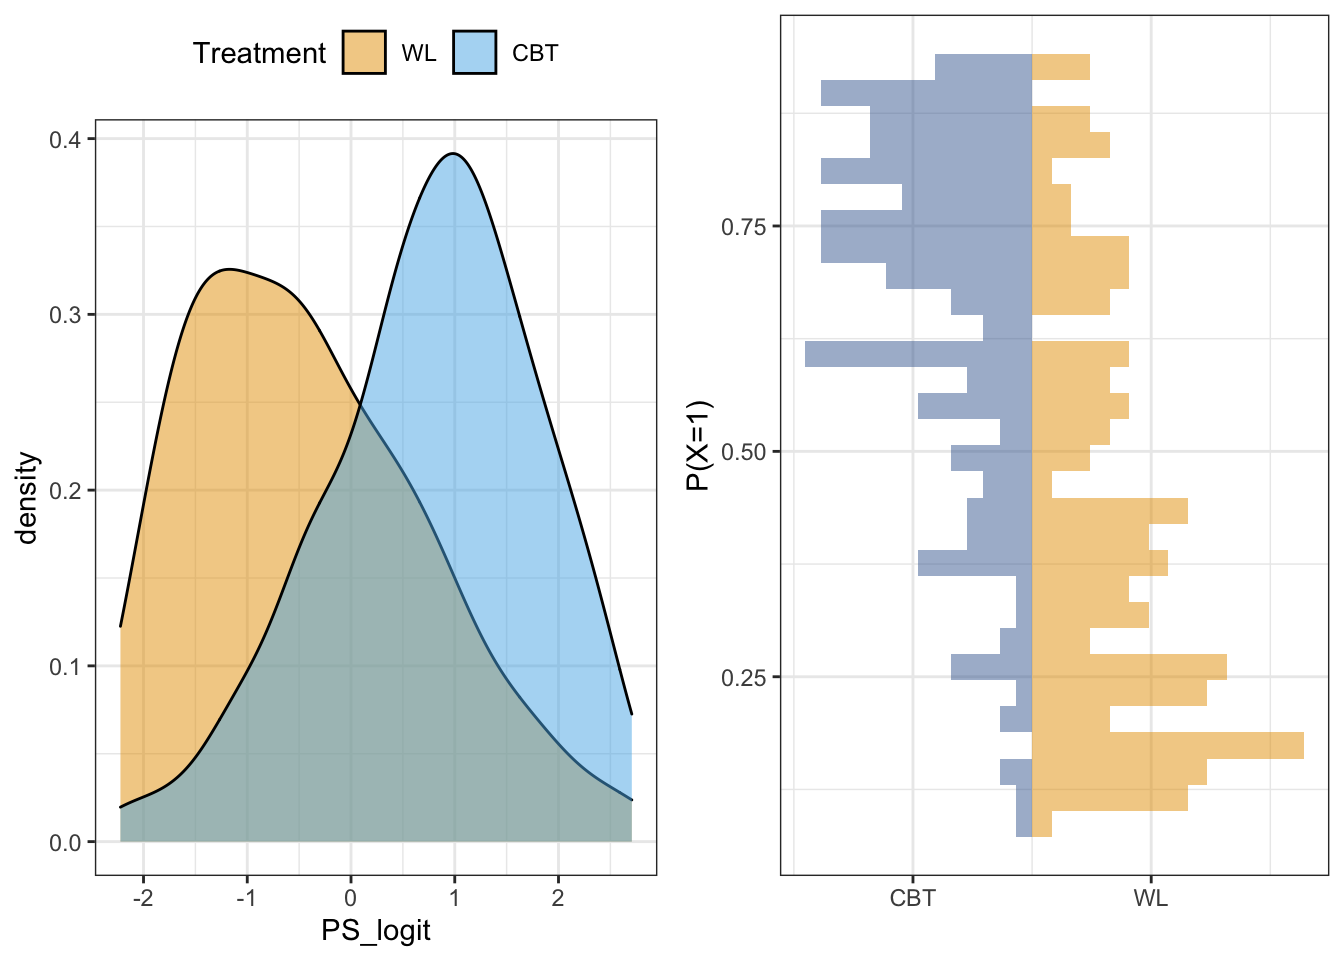
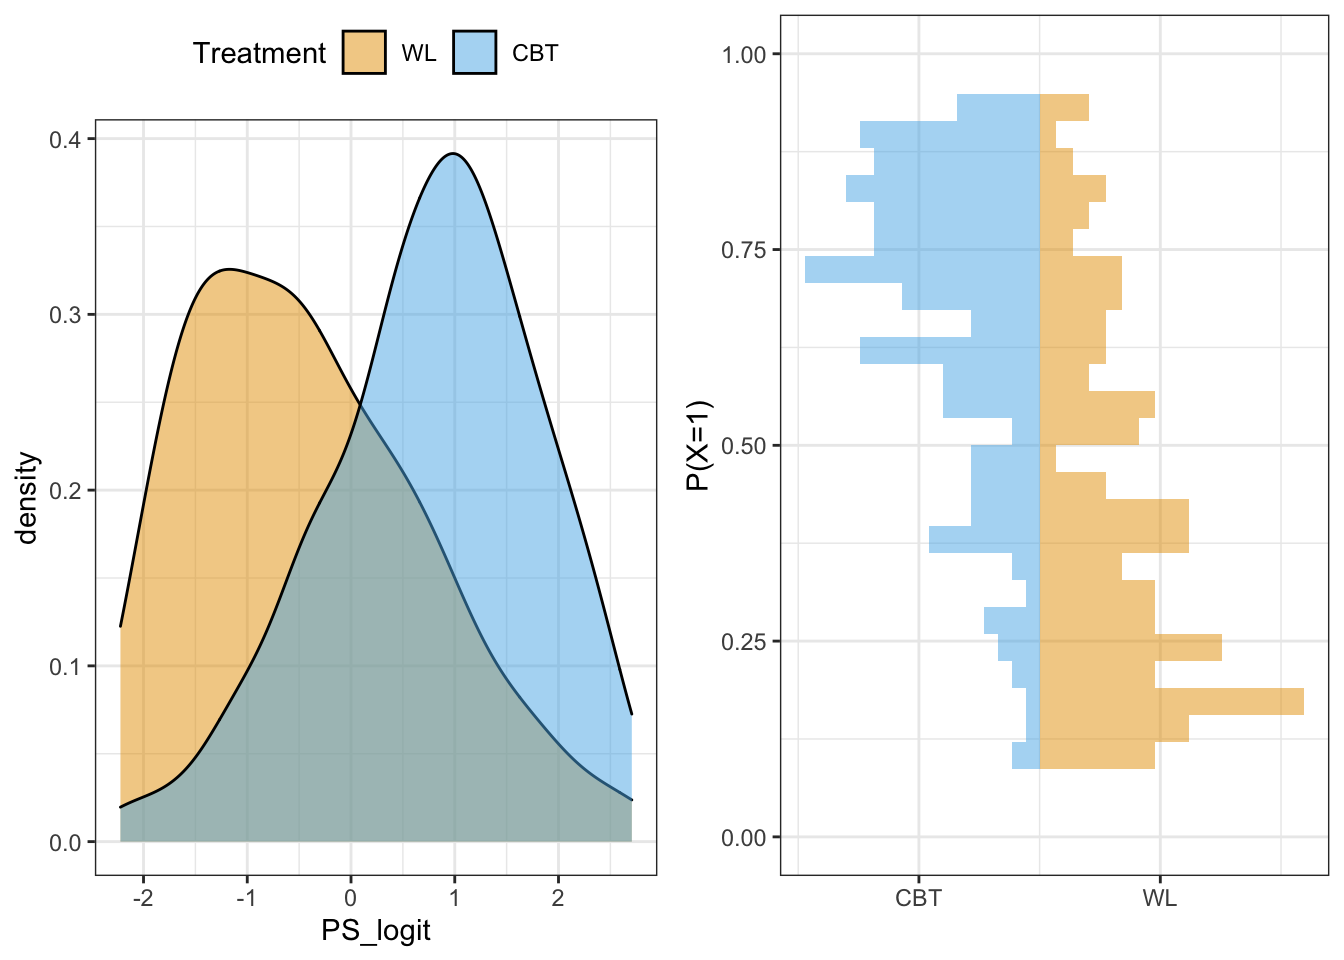
Update causal modeling 2 to Klipps.

diff --git a/content/post/2022-02-07_Kausaleffekte_2_KliPPS.html b/content/post/2022-02-07_Kausaleffekte_2_KliPPS.html
@@ -1,10 +1,14 @@
 ---
 title: "Schätzung von Kausaleffekten 2"
+output:
+  html_document:
+   code_folding: show
+  
 date: '2022-02-07'
 slug: kausal2
 categories:
      - MSc5a
-     
+    
 tags:
 - Kausalität
 - Propensity Scores
@@ -15,7 +19,7 @@ tags:
 subtitle: 'Propensity Scores'
 summary: ''
 authors: [hartig]
-lastmod: '2022-02-07 17:00:00 CEST'
+lastmod: '2022-02-14 17:00:00 CEST'
 featured: no
 header:
      image: "/header/Kausal2_Head.jpg"
@@ -46,7 +50,7 @@ library(MatchIt)      # Für das Propensity Score Matching</code></pre>
 </div>
 <div id="Einleitung" class="section level2">
 <h2>Datenbeispiel</h2>
-<p>Wir verwenden wieder unserer fiktives Datenbeispiel, in dem Patient*innen, die an einer Depression oder einer Angststörung leiden, entweder mit einer kognitiven Verhaltenstherapie (CBT) behandelt oder in einer Wartekontrollgruppe belassen wurden. Die Zuordnung konnte nicht randomisiert erfolgen, weshalb die Gruppen nicht vergleichbar sind.</p>
+<p>Wir verwenden wieder unserer fiktives Datenbeispiel, in dem Patient*innen, die an einer Depression oder einer Angststörung leiden, entweder mit einer kognitiven Verhaltenstherapie (CBT) behandelt oder in einer Wartekontrollgruppe belassen wurden. Die Zuordnung konnte nicht randomisiert erfolgen, weshalb der Effekt der Behandlung nicht ohne weiteres berechenbar ist.</p>
 <pre class="r"><code>load(url(&quot;https://pandar.netlify.app/post/CBTdata.rda&quot;))
 head(CBTdata)</code></pre>
 <table>
@@ -207,7 +211,7 @@ plot(CBTdata$PS_logit, CBTdata$PS_P)</code></pre>
 <div id="prüfung-des-overlap" class="section level3">
 <h3>Prüfung des Overlap</h3>
 <p>Die Unterschiede im resultierenden Propensity Score in Logit-Einheiten können wir uns durch eine grafische Darstellung der Verteilungen in den Gruppen veranschaulichen. Die Treatment-Wahrscheinlichkeit ist in der Treatment-Gruppe deutlich höher, was z.B. durch eine Selektion nach Dringlichkeit der Fälle zustande gekommen sein kann. Durch ein Abtragen der Treatmentwahrscheinlichkeiten können wir zusätzlich veranschaulichen, wie groß die Überschneidungen der Gruppen (<em>common support</em>) sind. In dieser Grafik sind auch das Minimum der Wahrscheinlichkeit in der Treatment-Gruppe und das Maximum in der Kontrollgruppe eingetragen - diese definieren die Grenzen der Überschneidung zwischen den Gruppen.</p>
-<pre class="r"><code>## Overlap &amp; Common Support ----
+<pre class="r fold-hide"><code>## Overlap &amp; Common Support ----
 p1 &lt;- ggplot(CBTdata, aes(x=PS_logit, fill = Treatment)) + 
   theme_bw() + theme(legend.position=&quot;top&quot;) +
   scale_fill_manual(values=c(&quot;#E69F00&quot;, &quot;#56B4E9&quot;)) +
@@ -215,21 +219,19 @@ p1 &lt;- ggplot(CBTdata, aes(x=PS_logit, fill = Treatment)) +
 
 p2 &lt;- ggplot(CBTdata, aes(x=PS_P, fill = Treatment)) + 
   theme_bw() +
-  labs(x=&quot;P(X=1)&quot;, y=&quot;&quot;) +
+  labs(x=&quot;P(X=1)&quot;, y=&quot;&quot;) + xlim(c(0,1)) +
   scale_y_continuous(breaks=c(-1.5,1.5),     # &quot;manuelle&quot; Achsenbeschriftungen, um die Gruppen einzutragen
                      labels=c(&quot;CBT&quot;, &quot;WL&quot;)) +
   geom_histogram(data = CBTdata[CBTdata$Treatment==&quot;WL&quot;,], aes(y=..density..),   # Histogramm WL
                  alpha=0.5, fill=&quot;#E69F00&quot;) +
   geom_histogram(data = CBTdata[CBTdata$Treatment==&quot;CBT&quot;,], aes(y=-..density..), # Histogramm CBT
-                 alpha=0.5, fill=&quot;#486ca1&quot;) +
+                 alpha=0.5, fill=&quot;#56B4E9&quot;) +
   # Minimum in CBT und maximum in WL einzeichnen
   geom_vline(xintercept = c(min(CBTdata$PS_P[CBTdata$Treatment==&quot;CBT&quot;]),
                             max(CBTdata$PS_P[CBTdata$Treatment==&quot;WL&quot;])),
              linetype=2) +
   coord_flip()
 grid.arrange(p1, p2, nrow=1) # Beide Plots nebeneinander</code></pre>
-<pre><code>## `stat_bin()` using `bins = 30`. Pick better value with `binwidth`.
-## `stat_bin()` using `bins = 30`. Pick better value with `binwidth`.</code></pre>
 <p><img src="/post/2022-02-07_Kausaleffekte_2_KliPPS_files/figure-html/unnamed-chunk-8-1.png" width="672" /></p>
 <p>Für Fälle außerhalb der <em>common support region</em> können keine kausalen Effekte geschätzt werden. Wir schließen daher 16 Fälle aus, die außerhalb des Überschneidungsbereichs liegen:</p>
 <pre class="r"><code>### Fälle außerhalb der Überschneidung ausschließen ----
@@ -242,7 +244,7 @@ CBTdata &lt;- CBTdata[!(CBTdata$Treatment==&quot;WL&quot; &amp;
 CBTdata &lt;- CBTdata[!(CBTdata$Treatment==&quot;CBT&quot; &amp; 
                                CBTdata$PS_P &gt; max(subset(CBTdata, Treatment==&quot;WL&quot;)$PS_P)),]</code></pre>
 <p>Nach dieser Korrektur überlappen sich die Propensity Scores beider Gruppen vollständig:</p>
-<pre class="r"><code>## Overlap &amp; Common Support nach Fallausschluss ----
+<pre class="r fold-hide"><code>## Overlap &amp; Common Support nach Fallausschluss ----
 p1 &lt;- ggplot(CBTdata, aes(x=PS_logit, fill = Treatment)) + 
   theme_bw() + theme(legend.position=&quot;top&quot;) +
   scale_fill_manual(values=c(&quot;#E69F00&quot;, &quot;#56B4E9&quot;)) +
@@ -250,17 +252,15 @@ p1 &lt;- ggplot(CBTdata, aes(x=PS_logit, fill = Treatment)) +
 
 p2 &lt;- ggplot(CBTdata, aes(x=PS_P, fill = Treatment)) + 
   theme_bw() +
-  labs(x=&quot;P(X=1)&quot;, y=&quot;&quot;) +
+  labs(x=&quot;P(X=1)&quot;, y=&quot;&quot;) + xlim(c(0,1)) +
   scale_y_continuous(breaks=c(-1.5,1.5),     # &quot;manuelle&quot; Achsenbeschriftungen, um die Gruppen einzutragen
                      labels=c(&quot;CBT&quot;, &quot;WL&quot;)) +
   geom_histogram(data = CBTdata[CBTdata$Treatment==&quot;WL&quot;,], aes(y=..density..),   # Histogramm WL
                  alpha=0.5, fill=&quot;#E69F00&quot;) +
   geom_histogram(data = CBTdata[CBTdata$Treatment==&quot;CBT&quot;,], aes(y=-..density..), # Histogramm CBT
-                 alpha=0.5, fill=&quot;#486ca1&quot;) +
+                 alpha=0.5, fill=&quot;#56B4E9&quot;) +
   coord_flip()
 grid.arrange(p1, p2, nrow=1) # Beide Plots nebeneinander</code></pre>
-<pre><code>## `stat_bin()` using `bins = 30`. Pick better value with `binwidth`.
-## `stat_bin()` using `bins = 30`. Pick better value with `binwidth`.</code></pre>
 <p><img src="/post/2022-02-07_Kausaleffekte_2_KliPPS_files/figure-html/unnamed-chunk-10-1.png" width="672" /></p>
 </div>
 </div>
@@ -280,20 +280,23 @@ round(coef(BDI.PS)[2],2)</code></pre>
 <h2>Propensity Score Matching</h2>
 <div id="auswirkung-der-zulässigen-distanz" class="section level3">
 <h3>Auswirkung der zulässigen Distanz</h3>
-<p>Matching können wir komfortabel mit der Funktion <code>matchit</code> aus dem Paket <code>MatchIt</code> durchführen. Mit Standard-Einstellungen wird als Methode zur Paarbildung ein “greedy nearest neighbor matching” verwendet, bei dem jedem Fall aus der Treatment-Gruppe nacheinander der ähnlichste Fall der Kontrollgruppe zugeordnet wird. Hier ist es wichtig, die Option <code>caliper</code> zu nutzen, um den zulässigen Mindestabstand zwischen den “Zwillingen” zu definieren (ausgedrückt in SD-Einheiten). Die folgende Grafik demonstriert den Effekt des caliper auf die Balance des Propensity Scores.</p>
+<p>Matching können wir komfortabel mit der Funktion <code>matchit</code> aus dem Paket <code>MatchIt</code> durchführen. Mit Standard-Einstellungen wird als Methode zur Paarbildung ein “greedy nearest neighbor matching” verwendet, bei dem jedem Fall aus der Treatment-Gruppe nacheinander der ähnlichste Fall der Kontrollgruppe zugeordnet wird. Hier ist es wichtig, die Option <code>caliper</code> zu nutzen, um den zulässigen Höchstabstand zwischen den “Zwillingen” zu definieren (ausgedrückt in SD-Einheiten). Die folgende Grafik demonstriert den Effekt des caliper auf die Balance des Propensity Scores und auf die Anzahl der Fälle, die in der Analyse verbleiben.</p>
 <div class="figure">
 <img src="MatchIt.Caliper.gif" alt="" />
 <p class="caption"><em>Abbildung: PS-Score-Dichte mit unterschiedlichen Werten für den caliper</em></p>
 </div>
 </div>
-<div id="kontrolle-der-kovariaten-balance" class="section level3">
-<h3>Kontrolle der Kovariaten-Balance</h3>
-<p>Mit dem kleinsten hier verwendeten Wert von 0.1 SD wird eine gute Balance des Propensity Score erreicht, diesen verwenden wir für die weiteren Analysen:</p>
+<div id="kontrolle-der-balance" class="section level3">
+<h3>Kontrolle der Balance</h3>
+<p>Mit einem caliper von 0.1 wird in der obigen Grafik augenscheinlich schon eine recht gute Balance erreicht, so dass wir diesen Wert für die weiteren Analysen verwenden.</p>
 <pre class="r"><code>PS.match &lt;- matchit(Treatment ~ Disorder + BDI_pre + SWL_pre, method = &quot;nearest&quot;,
                     data = CBTdata, link = &quot;logit&quot;, caliper = 0.1)</code></pre>
 <pre><code>## Warning: Fewer control units than treated units; not all treated units will get
 ## a match.</code></pre>
-<p>Die <code>summary</code> des <code>matchit</code>-Objekts liefert detailierte Informationen zur Balance der einbezogenen Kovariaten. Wir sehen, dass die Differenzen in den Kovariaten sehr gut reduziert werden konnten. In der gematchten Stichprobe sind allerdings auch nur nich 168 Fälle verblieben. 142 wurden ausgeschlossen, da sie nicht mit einem hinreichend ähnlichen Fall “gepaart” werden konnten.</p>
+<p>Die Balance hinsichtlich des Propensity Scores <span class="math inline">\(\pi\)</span> und die Lage der nicht-gepaarten Fälle lässt sich auch gut mit einem Plot der <code>matchit</code>-Funktion veranschaulichen. Wir sehen, dass vor allem Fälle der Kontrollgruppe mit niedriger und Fälle der Treatment-Gruppe mit hoher Treatment-Wahrscheinlichkeit vom Matching ausgeschlossen werden:</p>
+<pre class="r"><code>plot(PS.match, type = &quot;jitter&quot;, interactive = F)</code></pre>
+<p><img src="/post/2022-02-07_Kausaleffekte_2_KliPPS_files/figure-html/unnamed-chunk-13-1.png" width="672" /></p>
+<p>Die <code>summary</code> des <code>matchit</code>-Objekts liefert detailierte Informationen zur Balance der einbezogenen Kovariaten. Wir sehen, dass die Differenzen in den Kovariaten sehr gut reduziert werden konnten. In der gematchten Stichprobe sind allerdings auch nur noch 168 (2 * 84) Fälle verblieben. 142 wurden ausgeschlossen, da sie nicht mit einem hinreichend ähnlichen Fall “gepaart” werden konnten.</p>
 <pre class="r"><code>summary(PS.match)</code></pre>
 <pre><code>## 
 ## Call:
@@ -343,6 +346,10 @@ round(coef(BDI.PS)[2],2)</code></pre>
 ## Matched        84      84
 ## Unmatched      57      85
 ## Discarded       0       0</code></pre>
+<p>Eine grafische Zusammenfassung der Kovariaten-Balance lässt sich durch einen <code>plot</code> der <code>summary</code> des <code>matchit</code>-Objekts erzeugen. Auch hier sehen wir, dass die Balance zufriedenstellend ist:</p>
+<pre class="r"><code>plot(summary(PS.match),
+     var.order = &quot;unmatched&quot;, abs = FALSE)</code></pre>
+<p><img src="/post/2022-02-07_Kausaleffekte_2_KliPPS_files/figure-html/unnamed-chunk-15-1.png" width="672" /></p>
 </div>
 <div id="effektschätzung" class="section level3">
 <h3>Effektschätzung</h3>
@@ -372,7 +379,7 @@ summary(BDI.match)</code></pre>
 </div>
 <div id="Stratifizierung" class="section level2">
 <h2>Stratifizierung</h2>
-<p>Stratifizierung ist als Methode <code>subclass</code> in der <code>matchit</code>-Funktion enthalten. Wir bilden fünf Strata und extrahieren den Datensatz, der die Zugehörigkeit zu den Strata enthält (Variable <code>subclass</code>):</p>
+<p>Stratifizierung ist als Methode <code>subclass</code> in der <code>matchit</code>-Funktion enthalten. Wir bilden fünf Strata und extrahieren den Datensatz, der die Zugehörigkeit zu den Strata enthält (Variable <code>subclass</code>). Die Kreuztabelle zeigt, dass die Strata so gebildet wurden, dass die Treatment-Gruppe gleichmäßig aufgeteilt wurde. Die Anzahl der jeweils “passenden” Kontrollgruppen-Fälle in den Strata unterscheidet sich stark.</p>
 <pre class="r"><code>PS.strat &lt;- matchit(Treatment ~ Disorder + BDI_pre + SWL_pre, data = CBTdata,
                  distance = &#39;logit&#39;, method = &#39;subclass&#39;, subclass = 5)
 CBTdata.strat &lt;- match.data(PS.strat)
@@ -382,7 +389,23 @@ table(CBTdata.strat$Treatment, CBTdata.strat$subclass)</code></pre>
 ##        1  2  3  4  5
 ##   WL  91 21 15  7  7
 ##   CBT 34 34 33 33 35</code></pre>
-<p>Den Treatment-Effekt berechnen wir hier jetzt “per Hand”, indem wir die Effekte innerhalb der Strata berechnen und dann über diese eine nach Größe der Strata gewichtete Summe berechnen. Hier erhalten wir mit -3.51einen geringfügig geringeren Effekt als bei anderen Methoden.</p>
+<p>Die folgende Grafik veranschaulicht die gebildeten Strata, als Grenzen sind jeweils die Untergrenzen (Minima in den Gruppen) eingezeichnet:</p>
+<pre class="r fold-hide"><code>ggplot(CBTdata.strat, aes(x=distance, fill = Treatment)) + 
+  theme_bw() + theme(text = element_text(size = 20)) +
+  labs(x=&quot;P(X=1)&quot;, y=&quot;&quot;) +
+  scale_y_continuous(breaks=c(-1.5,1.5),     # &quot;manuelle&quot; Achsenbeschriftungen, um die Gruppen einzutragen
+                     labels=c(&quot;CBT&quot;, &quot;WL&quot;)) +
+  geom_histogram(data = CBTdata.strat[CBTdata.strat$Treatment==&quot;WL&quot;,], aes(y=..density..),   # Histogramm WL
+                 alpha=0.5, fill=&quot;#E69F00&quot;) +
+  geom_histogram(data = CBTdata.strat[CBTdata.strat$Treatment==&quot;CBT&quot;,], aes(y=-..density..), # Histogramm CBT
+                 alpha=0.5, fill=&quot;#56B4E9&quot;) +
+  coord_flip() +
+  geom_vline(xintercept = aggregate(CBTdata.strat$distance, by=list(CBTdata.strat$subclass), FUN=min)$x[2:5],
+             linetype=2) +
+  coord_flip()</code></pre>
+<p><img src="/post/2022-02-07_Kausaleffekte_2_KliPPS_files/figure-html/unnamed-chunk-18-1.png" width="672" /></p>
+<p>Den Treatment-Effekt berechnen wir hier jetzt “per Hand”. Die Funktion <code>tapply</code> wird hierbei benutzt, um die Mittelwerte von Treatment- und Kontrollgruppe in den Strata zu berechnen, diese werden dann als Schätzer für <span class="math inline">\(Y^0\)</span> und <span class="math inline">\(Y^1\)</span> verwendet, aus ihrer Differenz ergibt sich der ATT innerhalb jedes Stratum.
+Für jedes Stratum wird anhand des Anteils der Fälle an der Gesamtstichprobe ein Gewichtungsfaktor berechtet. Der ATT ergibt sich dann als gewichtete Summe der Effekte innerhalb der Strata. Wir erhalten hier mit -3.51 einen geringfügig geringeren Effekt als bei anderen Methoden.</p>
 <pre class="r"><code>##ATEs in den Strata berechnen und als neuen Datensatz
 MWs &lt;- tapply(CBTdata.strat$BDI_post, list(CBTdata.strat$subclass, CBTdata.strat$Treatment), mean)
 MWW &lt;- data.frame(Y0 = MWs[, 1], Y1 = MWs[, 2], ATEq = MWs[, 2]-MWs[, 1])
@@ -403,7 +426,8 @@ sum(MWW$Wq*MWW$ATEq)</code></pre>
 <h2>Gewichtung mit dem Propensity Score</h2>
 <p>Gewichte konstruieren wir auf Basis der Propensity Scores <span class="math inline">\(\pi\)</span> und der Treatmentgruppen-Zugehörigkeit <span class="math inline">\(X \in \{0,1\}\)</span> nach der Formel</p>
 <p><span class="math display">\[\frac{X_i}{\pi_i}+\frac{1-X_i}{1-\pi_i}\]</span></p>
-<pre class="r"><code>CBTdata$ps_w &lt;- (CBTdata$Treatment==&quot;CBT&quot;)*1/CBTdata$PS_P + (1 - (CBTdata$Treatment==&quot;CBT&quot;)*1)/(1 - CBTdata$PS_P)</code></pre>
+<pre class="r"><code># mit (CBTdata$Treatment==&quot;CBT&quot;)*1 wird Treatment numerisch mit 1, Kontrollgruppe mit 0 kodiert
+CBTdata$ps_w &lt;- (CBTdata$Treatment==&quot;CBT&quot;)*1/CBTdata$PS_P + (1 - (CBTdata$Treatment==&quot;CBT&quot;)*1)/(1 - CBTdata$PS_P)</code></pre>
 <p>Diese Gewichte können in der <code>lm</code>-Funktion verwendet werden, um eine Schätzung mittels <em>weighted least squares</em> (WLS) vorzunehmen. Hierbei erhalten wir mit einem geschätzten Treatment-Effekt von -5.08 eine etwas “optimistischere” Schätzung als mit den anderen Methoden.</p>
 <pre class="r"><code>BDI.weighted &lt;- lm(BDI_post ~ Treatment, data = CBTdata, weights = ps_w)
 summary(BDI.weighted)</code></pre>
